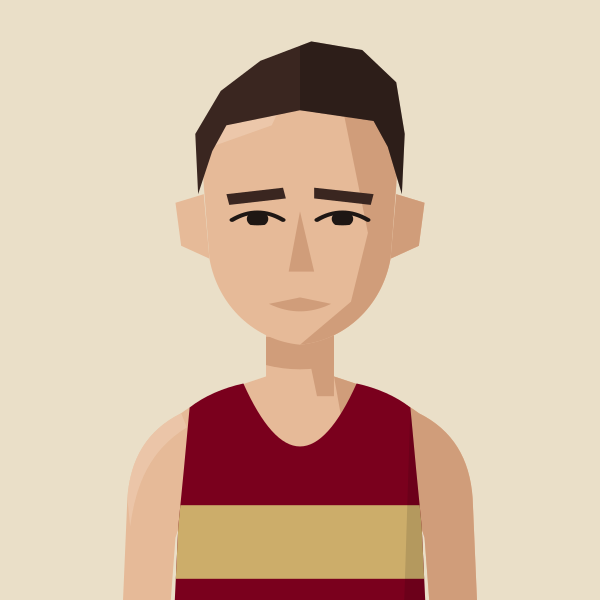
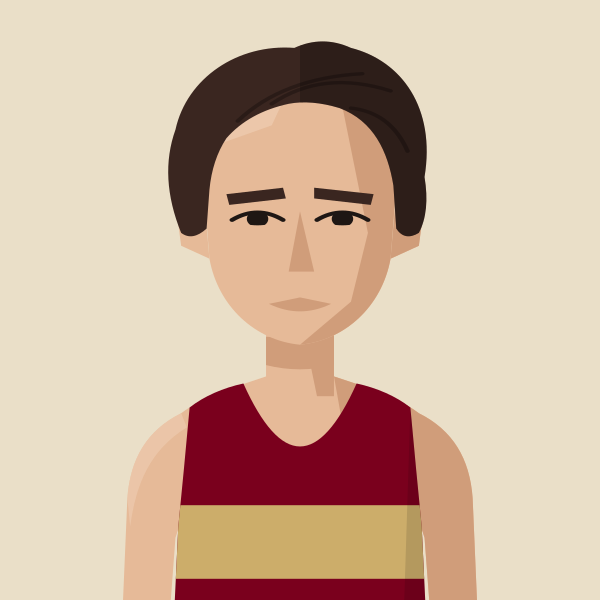
Portraits: swept-back hair for Rian McCawley
Claude-Session: https://claude.ai/code/session_01MgmDWhFqnSSnP4iBLKXUZC

Changed region(s): [[0.39, 0.09, 0.72, 0.39], [0.27, 0.06, 0.48, 0.39], [0.54, 0.06, 0.57, 0.09]]

diff --git a/tools/gen_portraits.py b/tools/gen_portraits.py
@@ -78,6 +78,7 @@ HAIR = {  # in head coordinates
     "bigcurls": '<path d="M64,104 L57.7,84.4 Q43.0,80.3 55.0,71.2 Q42.5,62.8 56.9,58.0 Q47.8,46.0 63.1,45.9 Q58.4,31.7 73.1,36.3 Q73.2,21.2 85.8,30.1 Q90.8,15.7 100.0,28.0 Q109.2,15.7 114.2,30.1 Q126.8,21.2 126.9,36.3 Q141.6,31.7 136.9,45.9 Q152.2,46.0 143.1,58.0 Q157.5,62.8 145.0,71.2 Q157.0,80.3 142.3,84.4 L136,104 L134,88 Q131,72 122,64 Q112,70 104,63 Q96,70 86,64 Q74,68 69,76 Q66,82 66,88 Z"/>',
     "curlspeak": '<path d="M62,114 L59.6,83.0 Q46.8,78.5 57.0,70.0 Q46.8,61.5 59.6,57.0 Q53.2,45.5 67.1,45.6 Q65.3,32.5 78.5,37.1 Q81.5,24.0 92.5,32.6 Q100.0,21.0 107.5,32.6 Q118.5,24.0 121.5,37.1 Q134.7,32.5 132.9,45.6 Q146.8,45.5 140.4,57.0 Q153.2,61.5 143.0,70.0 Q153.2,78.5 140.4,83.0 L138,114 L134,98 Q132,78 123,66 Q114,60 107,65 L100,74 L93,65 Q86,60 77,66 Q68,78 66,98 Z"/>',
     "horseshoe": '<path d="M64,102 C62,84 63,74 69,66 L74,70 Q70,84 70,102 Z"/><path d="M136,102 C138,84 137,74 131,66 L126,70 Q130,84 130,102 Z"/>',
+    "sweptback": '<path d="M58,118 Q50,92 56,70 C60,46 78,30 98,32 Q108,26 118,32 C136,38 148,60 144,92 Q146,108 142,118 Q137,122 134,116 L133,96 C131,80 126,66 114,60 Q104,56 96,58 Q82,62 74,74 Q69,84 68,98 L67,116 Q62,122 58,118 Z"/><g fill="none" stroke="#000" stroke-opacity=".28" stroke-width="1.6" stroke-linecap="round"><path d="M78,66 Q94,46 122,44"/><path d="M90,58 Q108,42 132,52"/><path d="M118,60 Q132,62 138,80"/></g>',
     "curtains": '<path d="M60,108 C54,62 76,32 100,32 C124,32 146,62 140,108 L136,104 C135,94 132,86 126,80 C116,72 107,70 102,58 L98,58 C93,70 84,72 74,80 C68,86 65,94 64,104 Z"/>',
     "croppeak": '<path d="M65,100 C62,60 82,40 100,40 C118,40 138,60 135,100 L132,84 Q130,68 122,62 Q114,58 108,64 L100,72 L92,64 Q86,58 78,62 Q70,68 68,84 Z"/>',
     "croprecede": '<path d="M65,100 C62,60 82,40 100,40 C118,40 138,60 135,100 L132,84 Q131,64 125,56 Q118,48 111,54 Q105,61 100,61 Q95,61 89,54 Q82,48 75,56 Q69,64 68,84 Z"/>',
@@ -338,7 +339,7 @@ save("shaw", figure("HHH", skin=1, hair=None))
 save("tyas", figure("BEL", skin=1, hair="tousled", hair_colour="dark brown", facial="stubble"))
 save("austin", figure("HHH", skin=2, hair="crop", hair_colour="mid brown", facial="beard", cap="#A7A9A6"))
 save("ellwood", figure("KEN", skin=1, hair="tousled", hair_colour="mid brown"))
-save("mccawley", figure("BEL", skin=2, hair="quiff", hair_colour="dark brown"))
+save("mccawley", figure("BEL", skin=2, hair="sweptback", hair_colour="dark brown"))
 save("kbarnes", figure("HOL", skin=1, hair="shortcurls", hair_colour="mid brown", facial="moustache"))
 save("mallett", figure("H/W", skin=1, hair="crop", hair_colour="mid brown", facial="stubble"))
 save("hutchins", figure("WOK", skin=1, hair="crop", hair_colour="#B07A4A"))
